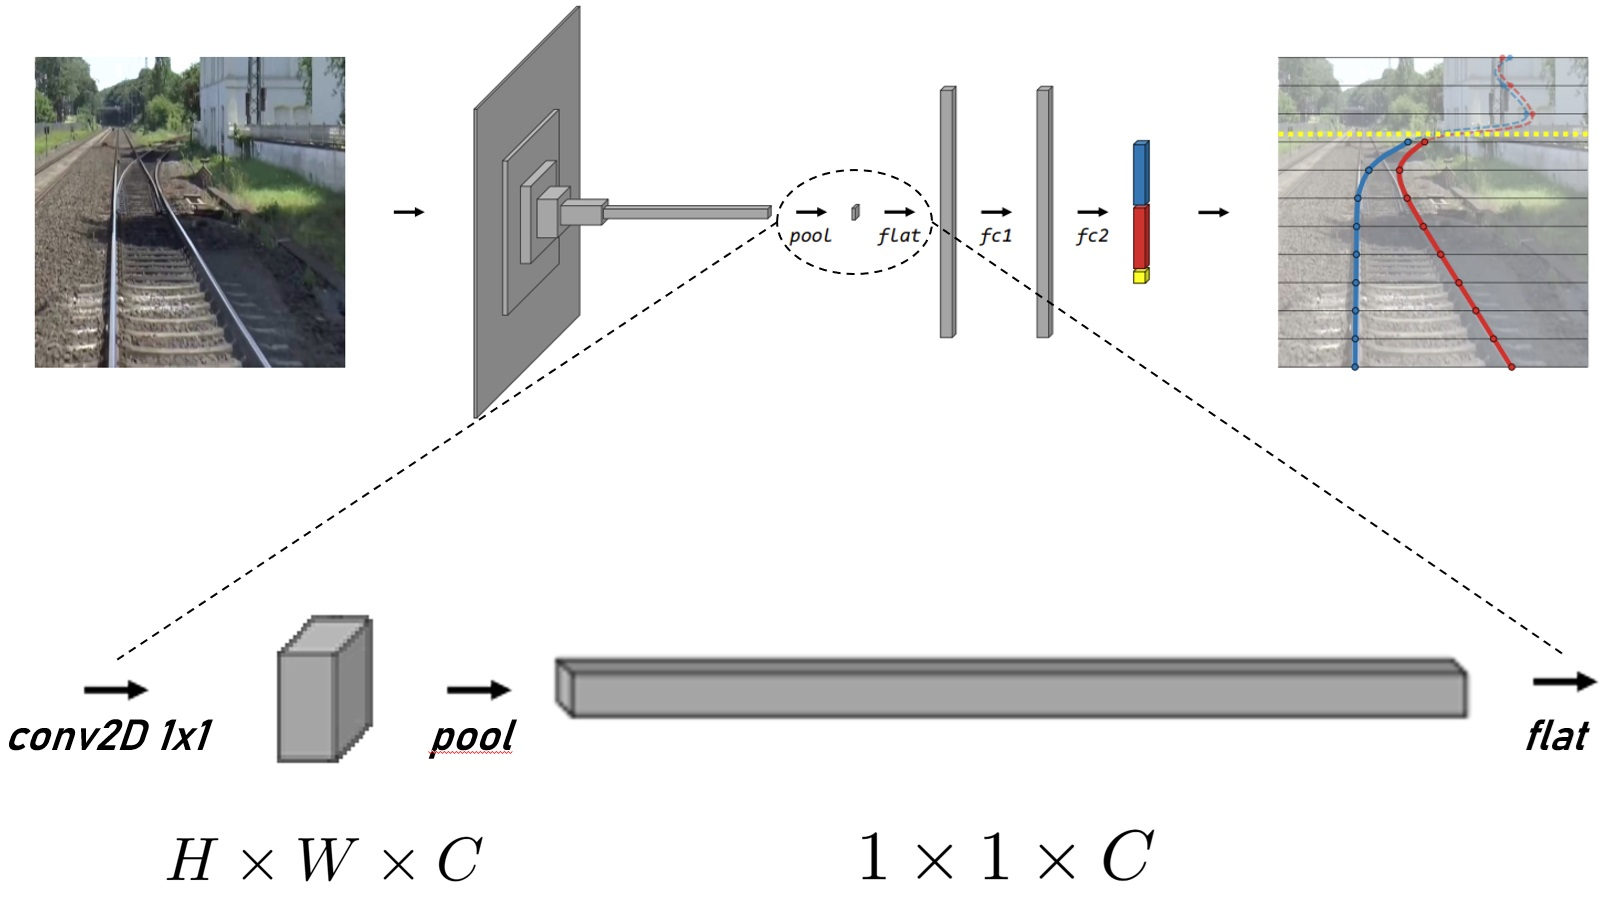
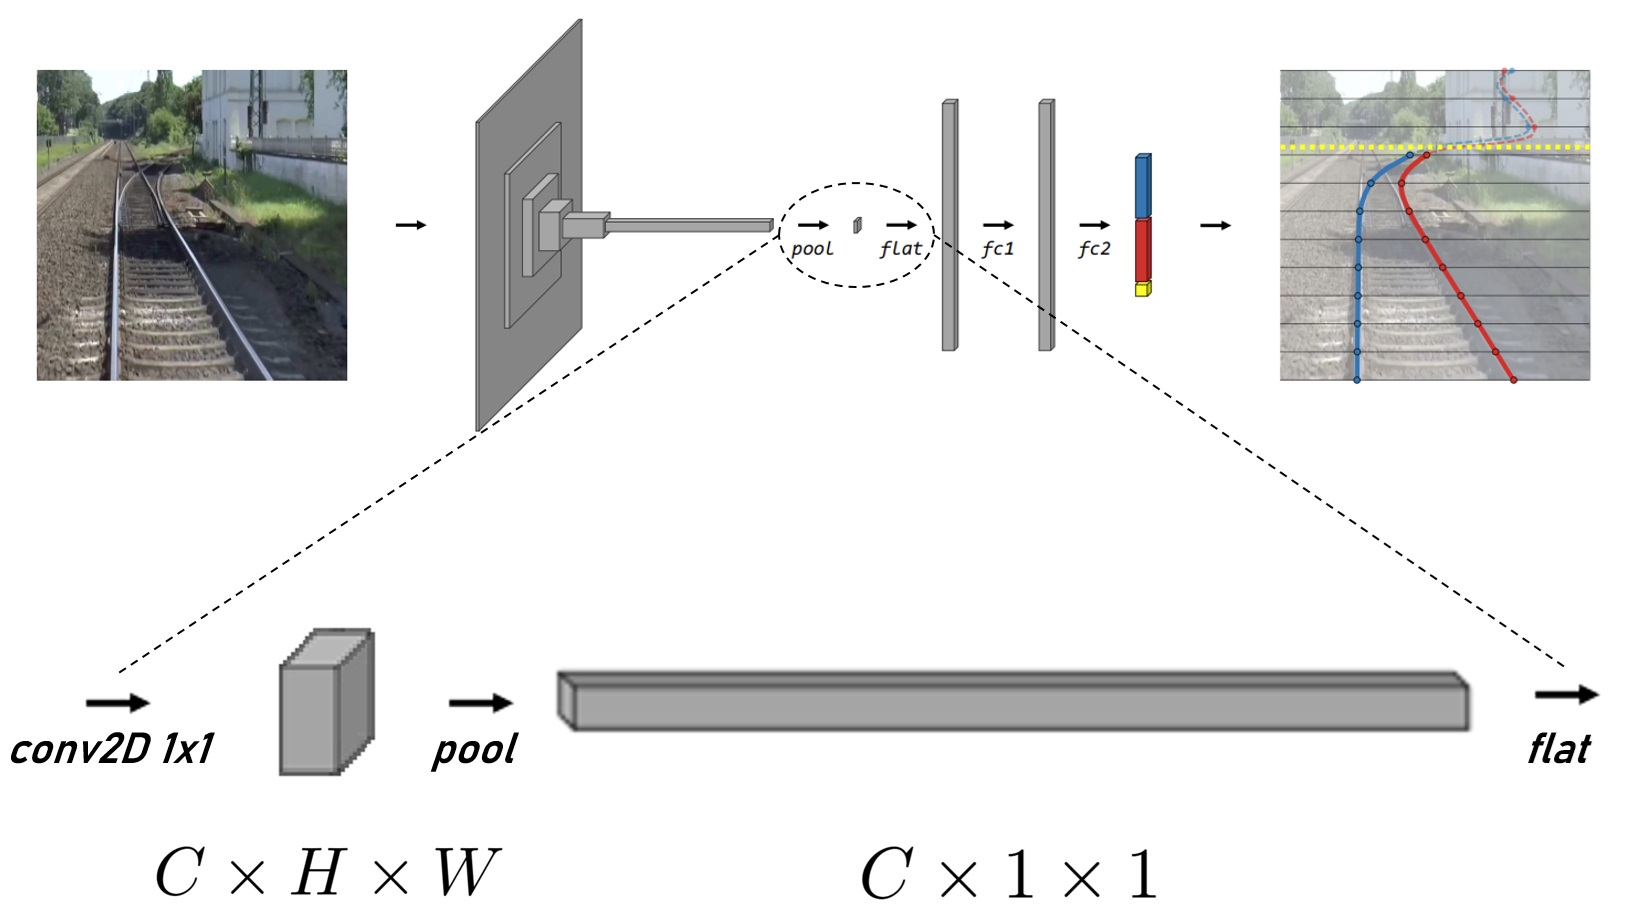
finished pooling layer subchapter

diff --git a/methodology/models.tex b/methodology/models.tex
@@ -78,8 +78,9 @@ Thirdly, experiments with different prediction heads are conducted.
 The following sections describe the structure of these architecture changes in detail.
 
 \subsubsection{Backbones}
+\label{subsubsec:backbones}
 
-Backbones are used for extracting features from images.
+Backbones are used to extract features from images.
 These are parts of \ac{CNN}s that input and output tensors.
 Common \ac{CNN} architectures usually work with 4D tensors with $B \times C \times H \times W$ as shown in \autoref{fig:backboneLogic}.
 $B$ is the batch size, $C$ is the channel size, $H$ and $W$ are the height and width of the input image.
@@ -150,14 +151,26 @@ EfficientNet            &                                               & [ & 8 
 
 \subsubsection{Pooling Layer}
 
-\begin{figure}
+In \autoref{subsubsec:backbones} the spatial resolution is standardized across multiple backbones.
+However, \autoref{tab:backboneDimensions} shows that after different backbones different numbers of channels $C$ are obtained.
+To solve this and make the backbones interchangeable, \cite{tepNet2024} proposed a pooling layer at the start of the prediction head.
+However, when analyzing the code \cite{tepNet2024GitHub}, it becomes clear that \cite{tepNet2024} used a convolution with a $1 \times 1$ kernel instead of a pooling.
+This \textit{conv2D1x1} transforms the feature map of the backbone to a predefined channel size.
+In \cite{tepNet2024GitHub} it is set to 8, resulting in the dimensions $8 \times 16 \times 16$.
+Then this feature map is flattened to a vector for further processing with fully connected layers.
+
+A critical positional encoding is missed when directly flattening this feature map.
+Therefore in this work after standardizing the dimensions with the \textit{conv2D1x1} layer, a true pooling layer is integrated.
+This additional layer consists of either an adaptive average pooling \cite{pytorch_averagePool_docu} or an adaptive max pooling \cite{pytorch_maxPool_docu}.
+An additional encoding takes place resulting in a vector-like tensor with dimensions $C \times 1 \times 1$.
+Besides the extra positional encoding, a further gained advantage is that the structure of data stays the same when flattening this feature map to a vector.
+
+\begin{figure}[H]
     \centering
     \includegraphics[width=0.75\linewidth]{PICs/improvedModel/poolingLayers.jpg}
     \caption{Integration of a true Pooling Layer (Model graphic taken from\cite{tepNet2024}).}
     \label{fig:truePoolingLayer}
 \end{figure}
-
-blindtext
 
 \subsubsection{prediction Heads}
 
@@ -185,5 +198,3 @@ blindtext
     \end{subfigure}
     \caption{Different architectures for prediction heads.}
 \end{figure}
-
-blindtext
